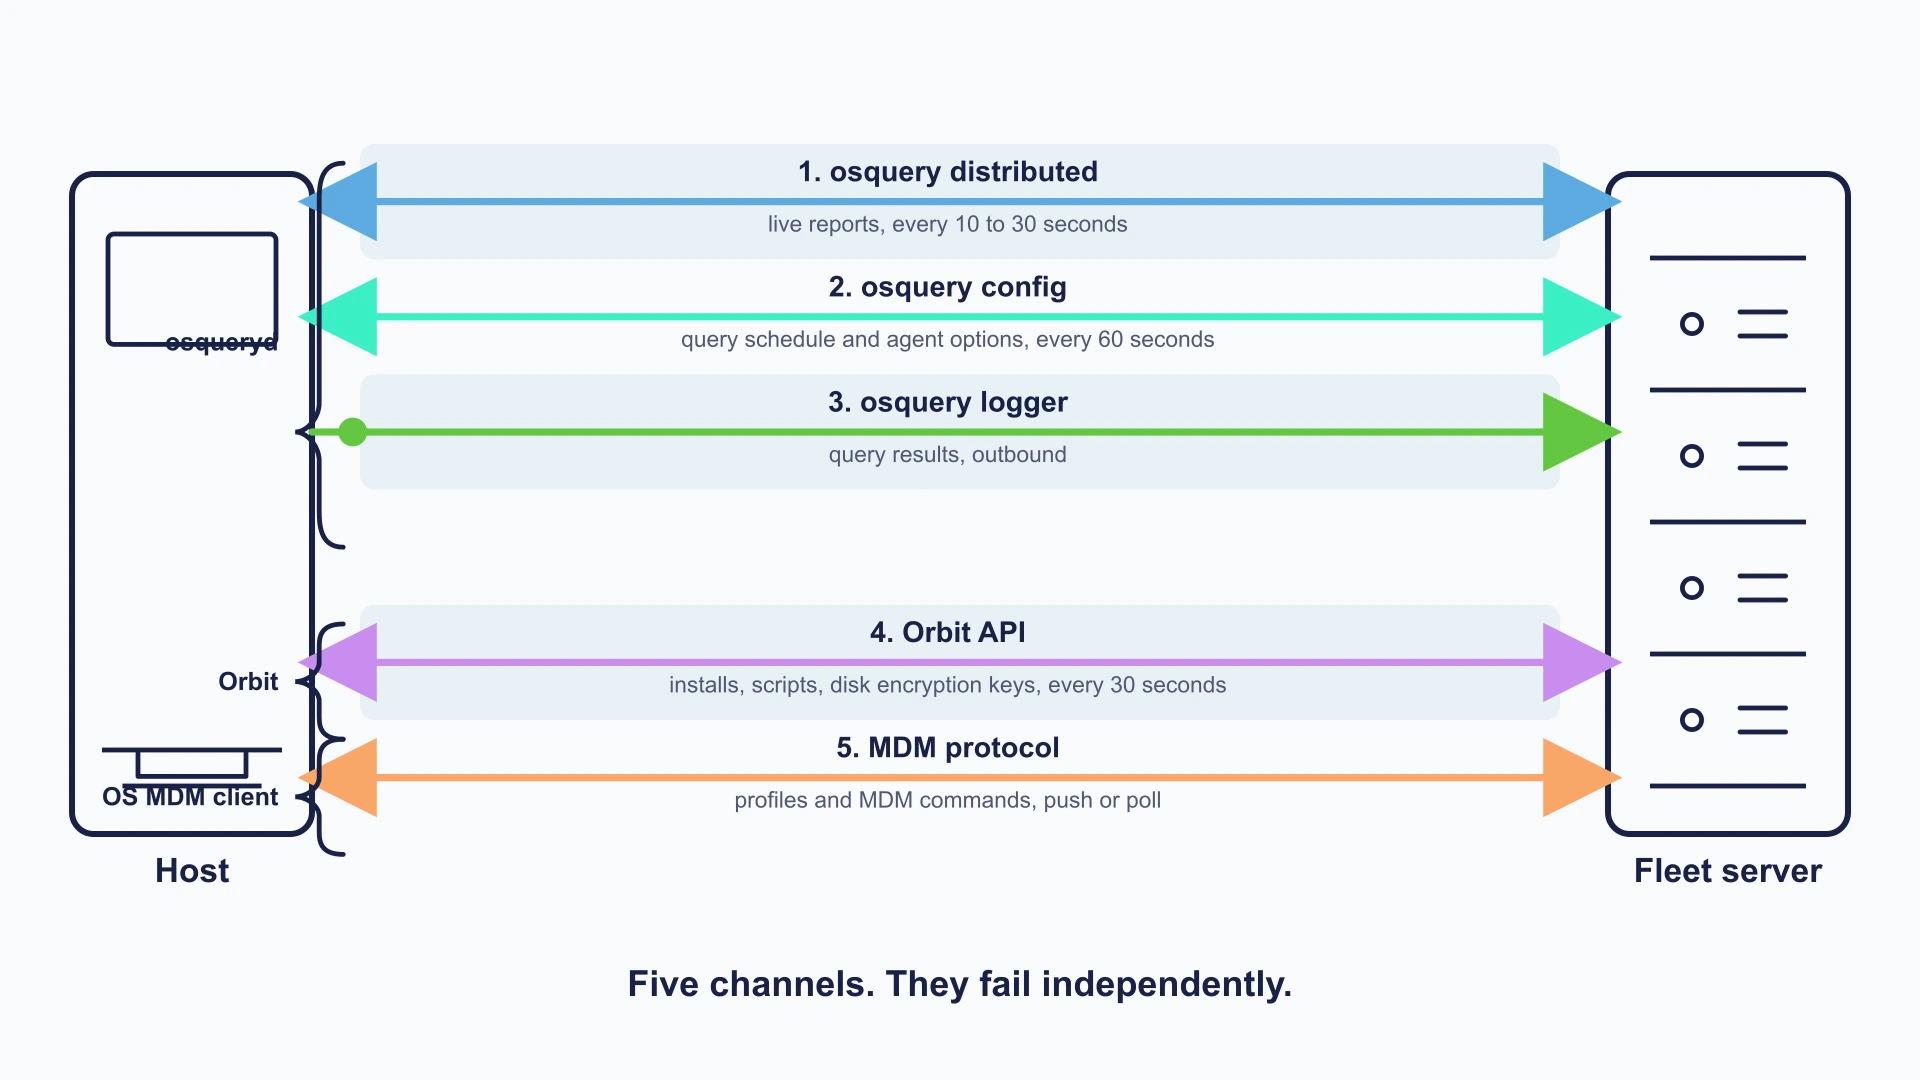
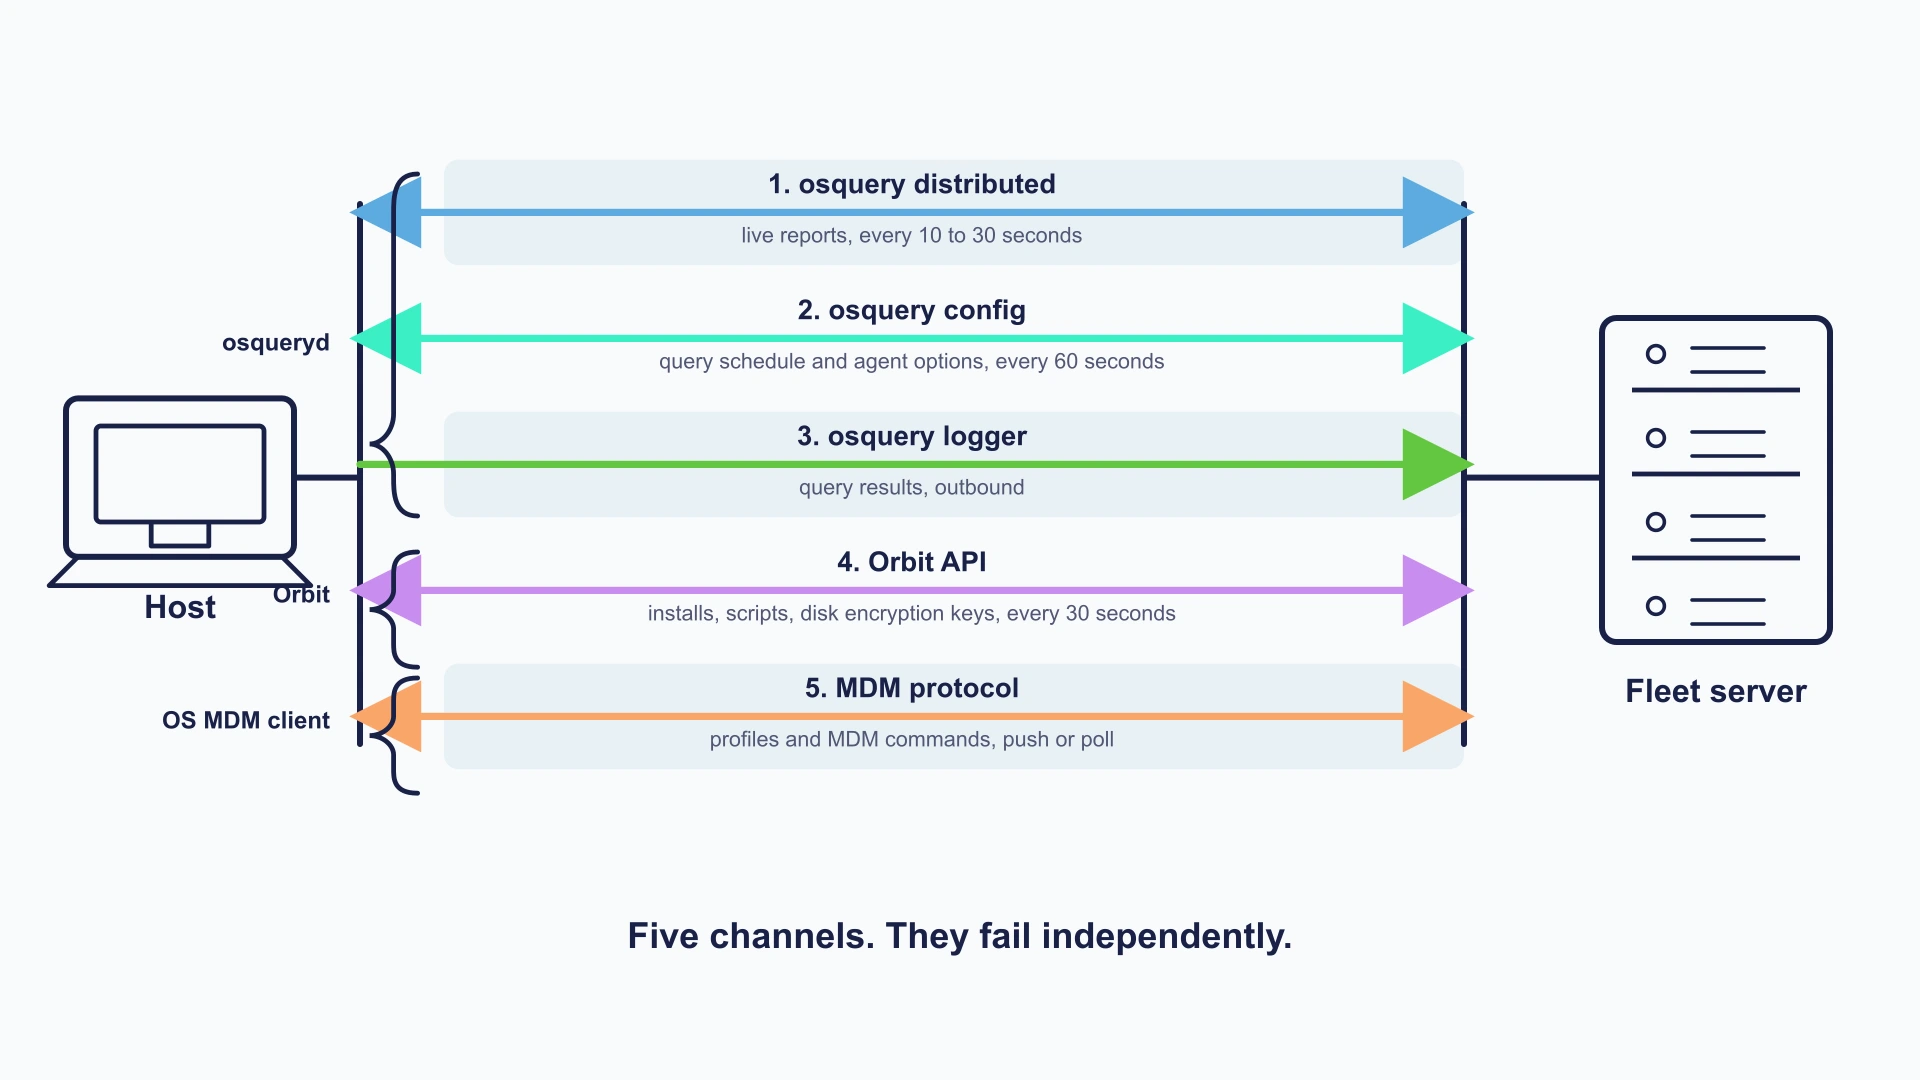
Fifth artwork pass: fourteen of fifteen done
The revert-and-change-one-thing instruction worked. 1.2's five channels
came back from the earlier composition with the host and server reading as
devices again, arrows reaching both ends, and a single brace spanning
arrows 1 to 3. 1.3's label outlines genuinely intersect now, with the
green laptop in the overlap, which is the only reason that picture exists.

Both are marked OK with one small blemish each accepted rather than
chased. Five rounds have shown that re-rendering to fix something minor
reliably breaks something larger, so the trade is not worth taking.

2.1 is the last one. Its wording fix landed and the icons are a real
improvement, but the panel headings are set wider than the panels and now
overflow into their neighbours. It should also match the lifecycle diagram
in 1.1, since the two are the same shape and currently look unrelated.

Claude-Session: https://claude.ai/code/session_01TyCHuHach8F1XQL3F8mUQ6

Changed region(s): [[0.0312, 0.1528, 0.9688, 0.825], [0.3125, 0.8556, 0.6875, 0.9472], [0.875, 0.2139, 0.9688, 0.2444]]

diff --git a/manual/01-foundations/1.2-how-fleet-reaches-a-device.md b/manual/01-foundations/1.2-how-fleet-reaches-a-device.md
@@ -125,18 +125,13 @@ Although the three osquery channels share one process, they are separate convers
 
 **One channel can affect another, in exactly one direction.** A Windows host on a relaxed MDM poll is woken by Orbit. If Orbit is wedged, queued MDM commands can sit for hours with nothing wrong in the MDM subsystem at all. It is the a case where the channels are not fully independent.
 
-<!-- IMAGE-REDO: assets/1.2-five-channels.webp
-     WHY: reviewed 2026-08-24. **This one went backwards and should be rebuilt from the
-     version before last, changing only the brace.** The brace fix landed, and everything
-     around it broke. The "osqueryd" label now overlaps the host outline and is unreadable.
-     The host is a tall empty rectangle that no longer reads as a laptop, and the server is a
-     stack of loose lines. A large empty gap sits between arrows 3 and 4. The frame is much
-     taller than 16:9 and mostly white.
-     What was right two versions ago: a recognisable laptop on the left, a recognisable
-     server on the right, five evenly spaced arrows reaching both, and labels clear of every
-     shape. Restore that, then make the single change: **one brace spanning arrows 1 to 3**
-     labelled osqueryd, not three separate braces, because those three channels share one
-     process.
+<!-- IMAGE-OK: assets/1.2-five-channels.webp
+     NOTE: reviewed 2026-08-24 and kept. Rebuilt from the earlier composition as asked:
+     the host and server read as devices again, the arrows reach both ends, and one brace now
+     spans arrows 1 to 3 for osqueryd rather than three separate ones. One blemish accepted
+     rather than chased: the word "Orbit" sits against the laptop's lower edge. It is legible,
+     and five rounds of regeneration have shown that re-rendering to fix a small thing tends
+     to break a larger one. Prompt retained for regeneration; do not delete.
      PROMPT: A laptop on the left labelled "Host", a server on the right labelled "Fleet
      server", both drawn as simple flat outlines with no shading or perspective. Five
      horizontal arrows connect them, stacked vertically, all in #192147 and distinguished by

diff --git a/manual/02-administer-and-deploy-fleet/2.1-administration-model-and-deployment-choices.md b/manual/02-administer-and-deploy-fleet/2.1-administration-model-and-deployment-choices.md
@@ -30,12 +30,16 @@ It deliberately stops short of the mechanics. Connecting an identity provider is
 That order is the point. None of these decisions is difficult on its own. What makes them worth pausing over is that they are cheap to make now and awkward to unpick once a few thousand devices are enrolled and a support team has built habits around them.
 
 <!-- IMAGE-REDO: 2.1-setup-sequence.webp
-     WHY: reviewed 2026-08-24. Reads well and the tints are right. One wording fix: the
-     first panel says "Fleet-hosted or self-hosted", but "Fleet-hosted" is not Fleet's term
-     and the chapter deliberately does not use it. Fleet says **managed cloud hosting**.
-     Change that panel to "Choose the operating model (managed cloud or self-hosted)". The
-     panels are also text-only while the comparable lifecycle diagram in 1.1 carries an icon
-     per stage; a simple navy icon in each would make them match.
+     WHY: reviewed 2026-08-24. The wording fix landed, "managed cloud or self-hosted" is
+     right, and the icons are a real improvement. **A legibility problem came with them.**
+     The panel headings are set wider than the panels themselves, so "Choose the operating
+     model", "Establish administration" and "Connect management services" all run past their
+     edges and collide with the neighbouring panel and its arrow. Set the headings to wrap
+     inside their panels, at a smaller size if needed, with clear margin on both sides.
+     Second, smaller: this diagram and the lifecycle diagram in 1.1 are the same shape, five
+     stages left to right, and they should look like siblings. 1.1 gives each stage its own
+     dot colour at a light tint; this one alternates two greys. Use the same five tints in
+     the same order so the two read as a pair.
      PROMPT: Fleet setup sequence
 Landscape five-stage setup sequence: Choose the operating model (Fleet-hosted or self-hosted);
 Establish administration (identity, roles, audit); Connect management services (Apple, Windows,

diff --git a/manual/01-foundations/1.3-hosts-fleets-labels.md b/manual/01-foundations/1.3-hosts-fleets-labels.md
@@ -252,15 +252,12 @@ This constitutes a practical rollout pattern:
 
 If a case still feels ambiguous, the tiebreaker is time. Ask how long the grouping should survive. Something you expect to dissolve after a rollout is a label. Something you expect to outlive the people who set it up is a fleet.
 
-<!-- IMAGE-REDO: assets/1.3-fleets-scope-labels-target.webp
-     WHY: reviewed 2026-08-24. The tint is right and Kiosks and Unassigned now have hosts in
-     them, so both earlier faults are fixed. **A new one replaced them, and it breaks the
-     concept.** The two dashed label outlines now sit side by side as separate groups, so no
-     host is in both. The entire point of this picture, and the sentence under it, is that a
-     host can be in any number of labels at once. Draw the two outlines genuinely
-     overlapping, in the way a Venn diagram overlaps, so that exactly one laptop falls inside
-     both. That shared laptop is the green one, and it is the only reason the diagram
-     exists.
+<!-- IMAGE-OK: assets/1.3-fleets-scope-labels-target.webp
+     NOTE: reviewed 2026-08-24 and kept. The two dashed outlines genuinely intersect now and
+     the green laptop sits in the overlap, which is the whole reason the picture exists.
+     Tints are right and every panel has hosts in it. Two small things accepted rather than
+     chased: the heading and the caption both open with "Fleets scope", and the label pills
+     touch the dashed boundaries. Prompt retained; do not delete.
      PROMPT: Three large rounded rectangles side by side, all with the same pale blue fill,
      labelled "Fleet: Workstations", "Fleet: Kiosks", and "Unassigned". Above them:
      "Fleets scope: a host is in exactly one." Inside Workstations, eight identical laptop
